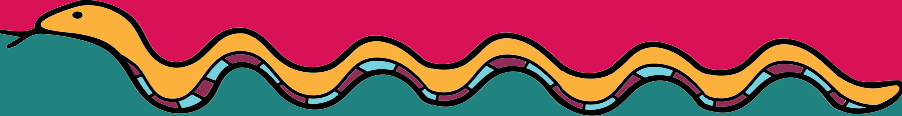
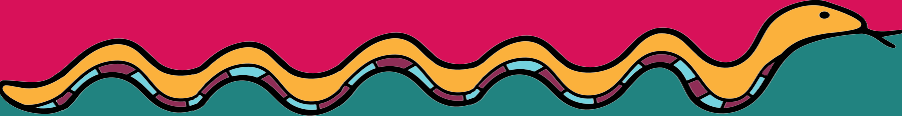
changed colors

diff --git a/components/Header.tsx b/components/Header.tsx
@@ -58,7 +58,7 @@ export default function Header() {
             rel="noreferer noopener noreferrer"
             target="_blank"
             href={`${ETHERSCAN_BASEURL}/address/${addresses?.treasury}`}
-            className="ml-4 border hover:bg-skin-backdrop transition ease-in-out hover:scale-110 font-semibold rounded-xl px-6 h-10 flex items-center justify-around text-skin-muted border-skin-stroke"
+            className="ml-4 border hover:bg-skin-button-accent-hover transition ease-in-out hover:scale-110 font-semibold rounded-xl px-6 h-10 flex items-center justify-around text-skin-base border-skin-stroke"
           >
             Ξ {treasury ? formatTreasuryBalance(treasury) : "0"}
           </Link>
@@ -69,10 +69,10 @@ export default function Header() {
             <NavigationItemsComponent
               key={i}
               item={item}
-              className="mr-4 border hover:bg-skin-backdrop transition ease-in-out hover:scale-110 font-semibold rounded-xl px-6 h-10 flex items-center justify-around text-skin-muted border-skin-stroke"
+              className="mr-4 border hover:bg-skin-button-accent-hover transition ease-in-out hover:scale-110 font-semibold rounded-xl px-6 h-10 flex items-center justify-around text-skin-base border-skin-stroke"
             />
           ))}
-          <CustomConnectButton className="bg-skin-backdrop px-6 h-10 rounded-xl border border-skin-stroke text-skin-base transition ease-in-out hover:scale-110" />
+          <CustomConnectButton className="bg-skin-backdrop hover:bg-skin-button-accent-hover px-6 h-10 rounded-xl border border-skin-stroke text-skin-base transition ease-in-out hover:scale-110" />
         </div>
 
         <button onClick={() => setShowMobile((x) => !x)} className="sm:hidden">

diff --git a/theme.config.ts b/theme.config.ts
@@ -6,17 +6,21 @@ export const theme: ThemeConfig = merge(lightTheme, {
   styles: {
     fonts: {
       heading: "Londrina Solid",
-      nouns: "Londrina Solid"
+      nouns: "Londrina Solid",
+      body: "Londrina Solid"
     },
     colors: {
       muted: `115, 210, 222`,
       backdrop: `33, 131, 128`,
       fill: `216, 17, 89`,
-      stroke: `143, 45, 86`,
+      stroke: `251, 177, 70`,
       "text-base": `255, 255, 255`,
-      "text-muted": `14, 24, 39`,
+      "text-muted": `115, 210, 222`,
       "text-inverted": `143, 45, 86`,
       "text-highlighted": `216, 17, 89`,
+      "button-accent": `33, 131, 128`,
+      "button-accent-hover": `251, 177, 60`,
+      "button-muted": `216, 17, 89`
     }
   },
   nav: {

diff --git a/components/Hero/SettleAuction.tsx b/components/Hero/SettleAuction.tsx
@@ -24,7 +24,7 @@ export const SettleAuction = ({ auction }: { auction?: string }) => {
   return (
     <button
       onClick={() => write?.()}
-      className="w-full bg-skin-button-accent bg-skin-button-accent hover:bg-skin-button-accent-hover text-skin-inverted h-12 mt-6 rounded-lg flex items-center justify-around"
+      className="w-full bg-skin-button-accent bg-skin-button-accent hover:bg-skin-button-accent-hover text-skin-base font-bold h-12 mt-6 rounded-lg flex items-center justify-around"
     >
       {isLoading ? (
         <Image src="/spinner.svg" height={26} width={26} alt="spinner" />
